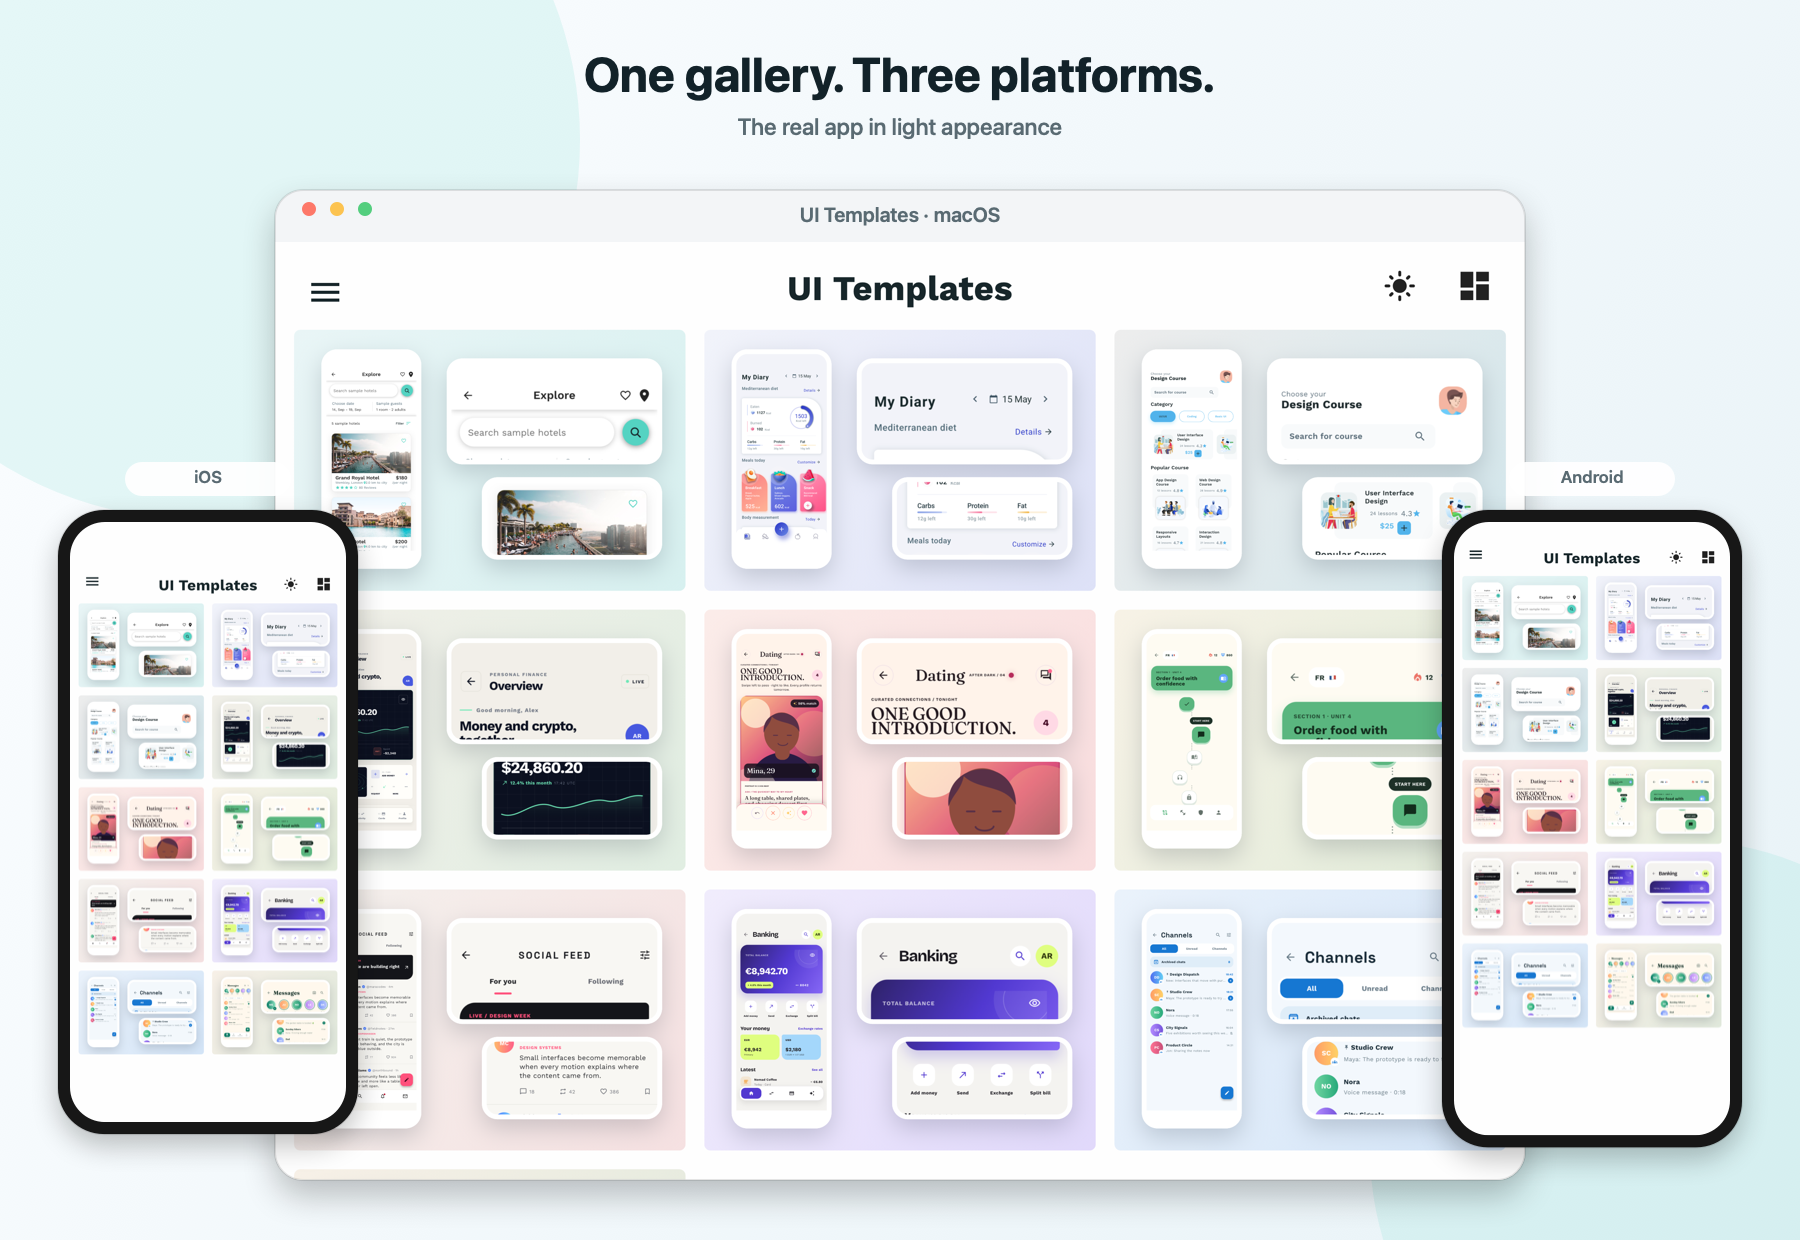
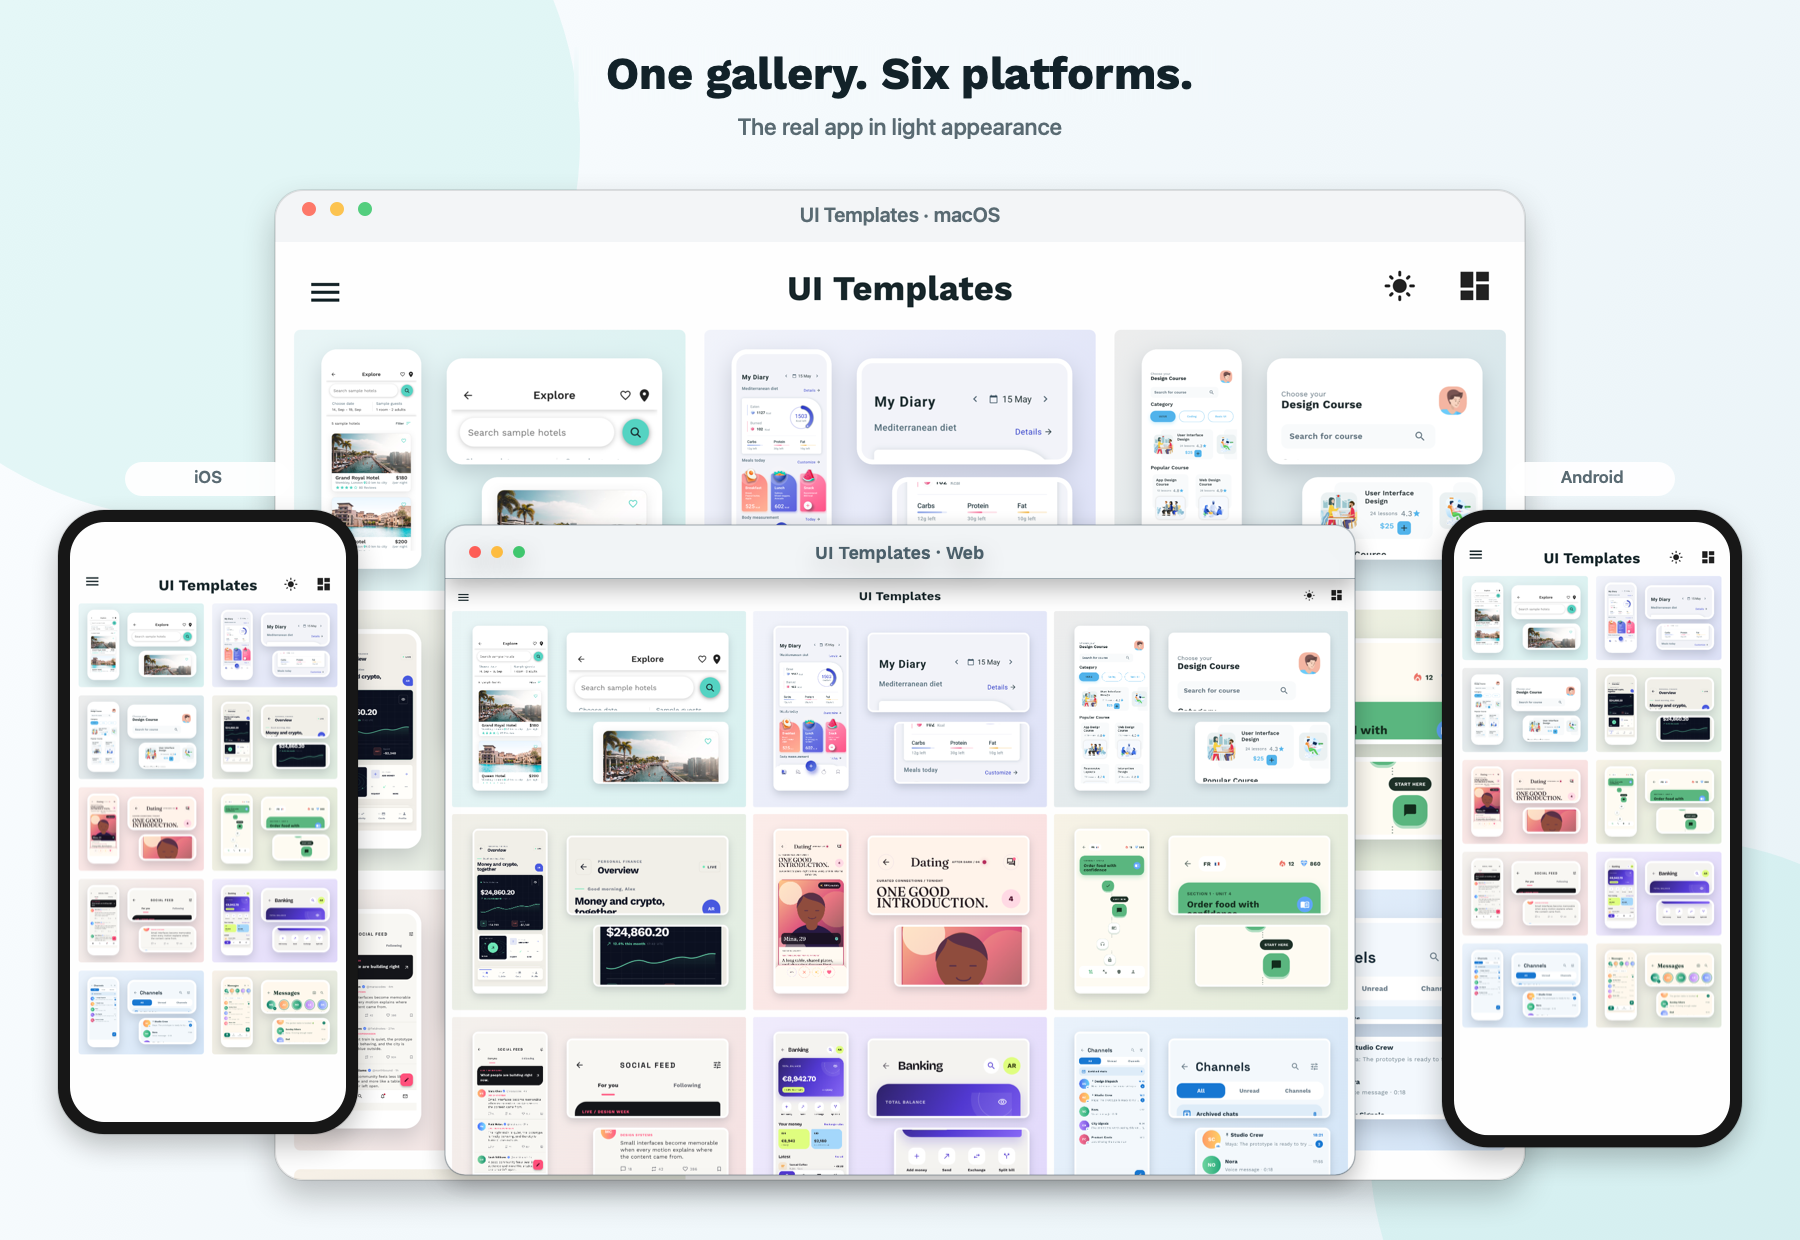
Show web previews and document all six platforms

Changed region(s): [[0.2178, 0.3984, 0.7778, 0.9806], [0.3111, 0.0306, 0.6844, 0.0919]]

diff --git a/README.md b/README.md
@@ -5,7 +5,7 @@ A free, open-source gallery of Flutter interface examples.
 <picture>
   <source media="(prefers-color-scheme: dark)" srcset="screenshots/readme-hero-dark.png">
   <source media="(prefers-color-scheme: light)" srcset="screenshots/readme-hero-light.png">
-  <img alt="UI Templates running on macOS, iOS, and Android" src="screenshots/readme-hero-light.png">
+  <img alt="UI Templates for Android, iOS, web, Linux, macOS, and Windows" src="screenshots/readme-hero-light.png">
 </picture>
 
 The public app has no private backend or telemetry integration; feedback opens a simple support-email draft.
@@ -19,11 +19,23 @@ fvm flutter run
 
 ## Gallery
 
-Ten reusable examples with system, light, and dark appearances.
+Ten reusable examples with system, light, and dark appearances across six Flutter platforms.
 
-| Light | Dark |
-| :---: | :---: |
-| ![Template gallery in light mode](screenshots/gallery-light.png) | ![Template gallery in dark mode](screenshots/gallery-dark.png) |
+### Web
+
+<picture>
+  <source media="(prefers-color-scheme: dark)" srcset="screenshots/web-gallery-dark.png">
+  <source media="(prefers-color-scheme: light)" srcset="screenshots/web-gallery-light.png">
+  <img alt="Web gallery" src="screenshots/web-gallery-light.png">
+</picture>
+
+### Mobile
+
+<picture>
+  <source media="(prefers-color-scheme: dark)" srcset="screenshots/gallery-dark.png">
+  <source media="(prefers-color-scheme: light)" srcset="screenshots/gallery-light.png">
+  <img alt="Mobile gallery" src="screenshots/gallery-light.png">
+</picture>
 
 ## License and attribution
 
